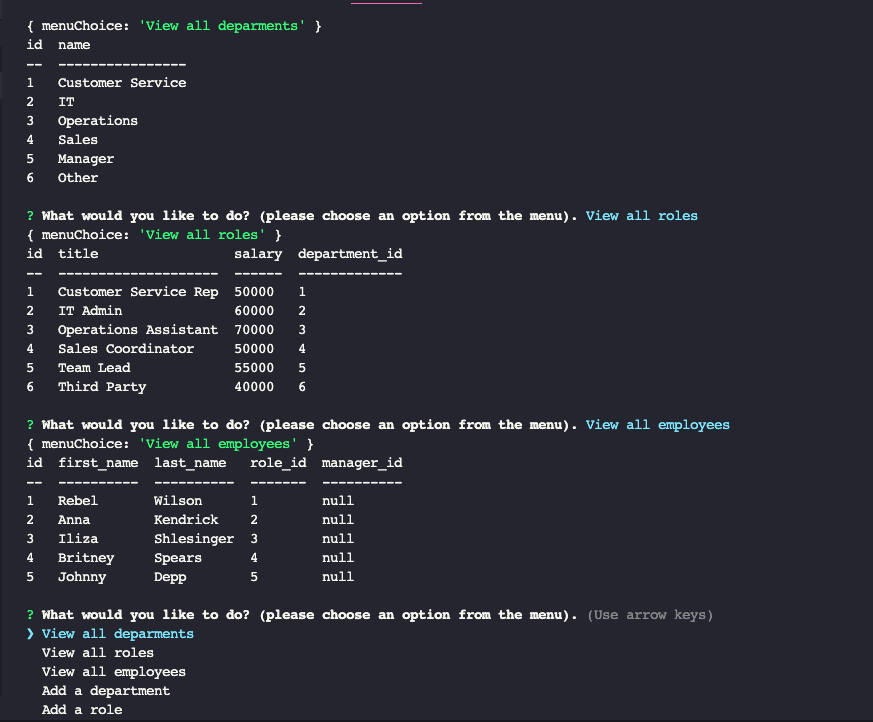
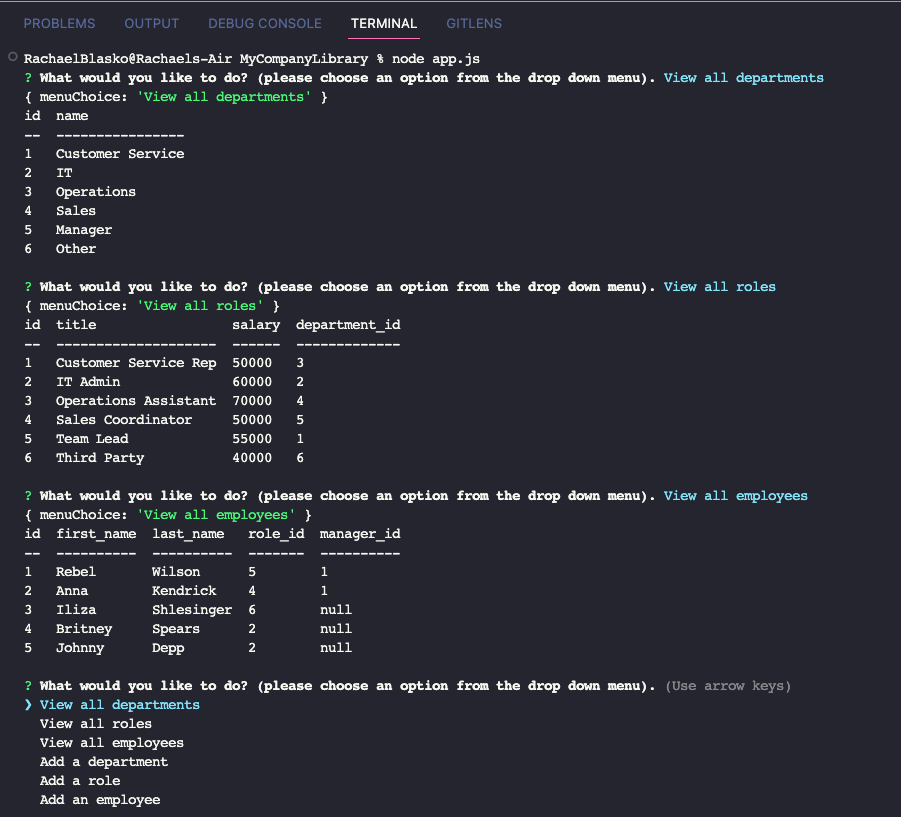
Updated files and pushed to GH

Changed region(s): [[0.0, 0.0, 0.9278, 1.0], [0.6804, 0.2742, 0.8041, 0.3047]]

diff --git a/app.js b/app.js
@@ -16,31 +16,37 @@ function displayMenu() {
         type: "list",
         name: "menuChoice",
         message:
-          "What would you like to do? (please choose an option from the menu).",
+          "What would you like to do? (please choose an option from the drop down menu).",
         choices: [
-          "View all deparments",
+          "View all departments",
           "View all roles",
           "View all employees",
           "Add a department",
           "Add a role",
+          "Add an employee",
+          "Update employee role"
         ],
       },
     ])
 
     .then((answers) => {
       console.log(answers);
-      if (answers.menuChoice === "View all deparments") {
+
+      if (answers.menuChoice === "View all departments") {
         db.query("SELECT * FROM department", function (err, results) {
           console.table(results);
           displayMenu();
-        });
+        
+          });
       }
+    
       if (answers.menuChoice === "View all roles") {
         db.query("SELECT * FROM role", function (err, results) {
           console.table(results);
           displayMenu();
         });
       }
+    
       if (answers.menuChoice === "View all employees") {
         db.query("SELECT * FROM employee", function (err, results) {
           console.table(results);
@@ -48,16 +54,102 @@ function displayMenu() {
         });
       }
       if (answers.menuChoice === "Add a department") {
-        db.query("SELECT * FROM role", function (err, results) {
-          console.table(results);
+        inquirer
+          .prompt([
+            {
+              type: "input",
+              name: "title",
+              message:
+                "What is the name of the department you would like to add?",
+            },
+          ])
+          .then((data) => addDepartment(data.title));
+      }
+      if (answers.menuChoice === "Add a role") {
+        inquirer
+          .prompt([
+            {
+              type: "input",
+              name: "title",
+              message: "What is the name for this position?",
+            },
+            {
+              type: "input",
+              name: "salary",
+              message: "What is the salary for this position?",
+            },
+            {
+              type: "input",
+              name: "departmentId",
+              message: "What is the department ID for this position?",
+            },
+          ])
+          .then((data) => addRole(data));
+          
+      }      
+      if (answers.menuChoice === "Add an employee") {
+        inquirer
+          .prompt([
+            {
+              type: "input",
+              name: "firstName",
+              message: "What is the first name of this employee?",
+            },
+            {
+              type: "input",
+              name: "lastName",
+              message: "What is the last name of this employee?",
+            },
+            {
+              type: "input",
+              name: "roleId",
+              message: "What is the role for this position?",
+            },
+            {
+              type: "input",
+              name: "managerId",
+              message: "Who is the manager for this employee?",
+            },
+          ])
+          .then((employeeData) => {
+            addEmployee(employeeData);
+          displayMenu();
+    });
+  }
+
+  if (answers.menuChoice === "Update employee role") {
+    inquirer
+          .prompt([
+            {
+              type: "input",
+              name: "firstName",
+              message: "What is the first name of this employee?",
+            },
+            {
+              type: "input",
+              name: "lastName",
+              message: "What is the last name of this employee?",
+            },
+            {
+              type: "input",
+              name: "roleId",
+              message: "What is the new role ID for this position?",
+            },
+            {
+              type: "input",
+              name: "managerId",
+              message: "Who is the manager for this employee?",
+            },
+          ])
+          .then((employeeData) => {
+            updateEmployee(employeeData);
           displayMenu();
         });
       }
-    });
-}
-displayMenu();
+    })
 
-// Add department
+    
+// Add department function
 const addDepartment = (departmentName) => {
   const sql = "INSERT INTO department (name) VALUES (?)";
   db.query(sql, [departmentName], (err, results) => {
@@ -66,11 +158,13 @@ const addDepartment = (departmentName) => {
       return;
     }
     console.log("Department added successfully");
+    displayMenu();
   });
-};
+}
 
-// Add role
-const addRole = (title, salary, departmentId) => {
+// Add role function
+const addRole = (roleData) => {
+  const { title, salary, departmentId } = roleData;
   const sql =
     "INSERT INTO role (title, salary, department_id) VALUES (?, ?, ?)";
   db.query(sql, [title, salary, departmentId], (err, results) => {
@@ -79,5 +173,37 @@ const addRole = (title, salary, departmentId) => {
       return;
     }
     console.log("Role added successfully");
+    displayMenu();
   });
 };
+
+// Add employee function
+const addEmployee = (employeeData) => {
+  const { firstName, lastName, roleId, managerId } = employeeData;
+  const sql =
+    "INSERT INTO employee (first_name, last_name, role_id, manager_id) VALUES (?, ?, ?, ?)";
+  db.query(sql, [firstName, lastName, roleId, managerId], (err, results) => {
+    if (err) {
+      console.error("Error adding employee:", err);
+      return;
+    }
+    console.log("Employee added successfully");
+    displayMenu();
+  });
+};
+//Add update employee role function
+const updateEmployee = (employeeData) => {
+  const { firstName, lastName, roleId, managerId } = employeeData;
+  const sql = "UPDATE employee SET role_id = ?, manager_id = ? WHERE first_name = ? AND last_name = ?";
+  
+  db.query(sql, [roleId, managerId, firstName, lastName], (err, results) => {
+    if (err) {
+      console.error("Error updating employee data", err);
+      return;
+    }
+    console.log("Employee data updated successfully");
+    displayMenu();
+  });
+};
+}
+displayMenu();

diff --git a/README.md b/README.md
@@ -1,30 +1,37 @@
 # My Company Library 📚
 [![License: MIT](https://img.shields.io/badge/License-MIT-yellow.svg)](https://opensource.org/licenses/MIT)
+
  ## Screenshot
 ![ALT](/assets/SS-MyCompanyLibrary.png)
-## Title
-  My Company Library
+
 ## Description
-  My Company Library is a database library, that stores and organizes employee information, by department, role responsibilities, etc.
+My Company Library is a database library, that stores and organizes employee information, by department, role responsibilities, etc.
   
-  Sensitive data, like salary details, can be stored as well. You can add additional options of organization, per your business needs.
+Sensitive data, like salary details, can be stored as well. You can add additional options of organization, per your business needs.
 ## Table of Contents
 1. [Usage](#usage)
-2. [Installation](#installation)
-3. [Contribution](#contribution)
-4. [License](#license)
+2. [Demo](#demo)
+3. [Installation](#installation)
+4. [Contribution](#contribution)
+5. [License](#license)
 ## Usage
-  Use My Company Library to organize your employee personell information.
+Use My Company Library to organize your employee personnell information.
+## Demo
+Watch the demo here: []
 ## Installation
 Ensure you are in the integrated terminal, of the location you would like this app to be ran at. Then, clone the My Company Library repository. On your command line- run the following line of code to install all required packages:
+>
  ```npm i```
+ >
 Once all packages have been installed, in your terminal, run the following line of code:
+>
 ```node app.js```
-This will starts the prompts and options for the app. Choose based on preference.
+>
+This will starts the prompts and options for the app. Choose/answer based on preference/business needs.
 ## Contribution
 If you would like to contribute to this repo, you will need to clone the repo locally and then create a pull request via GitHub.
 ## License
 MIT
 ## Questions?
-Please reach out to missblasko at miss.blasko@gmail.com.
+Contact me via GitHub @ missblasko or e-mail @ miss.blasko@gmail.com
   
